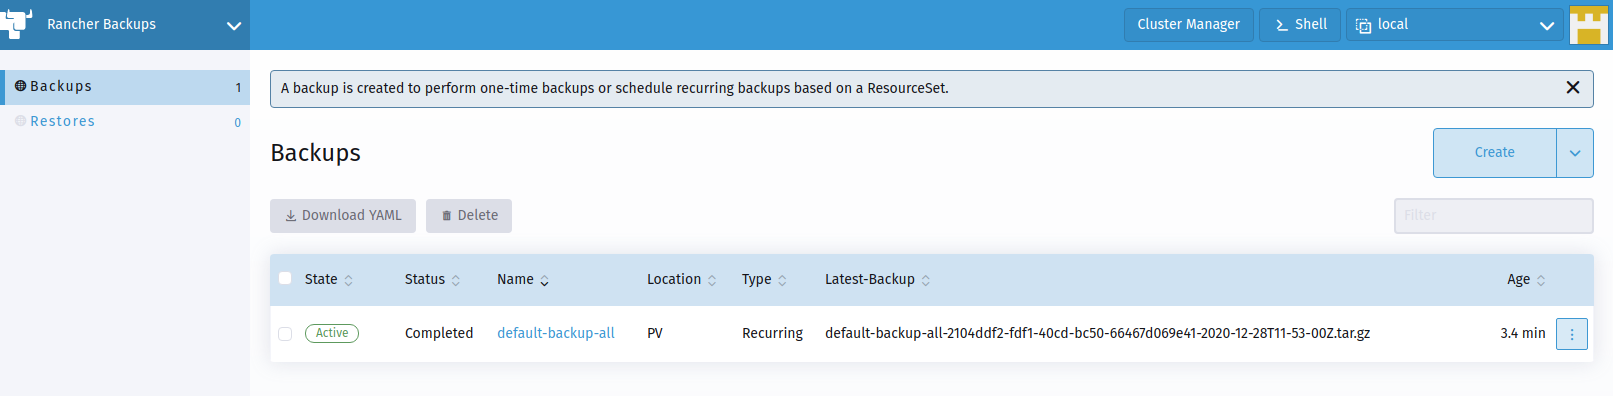
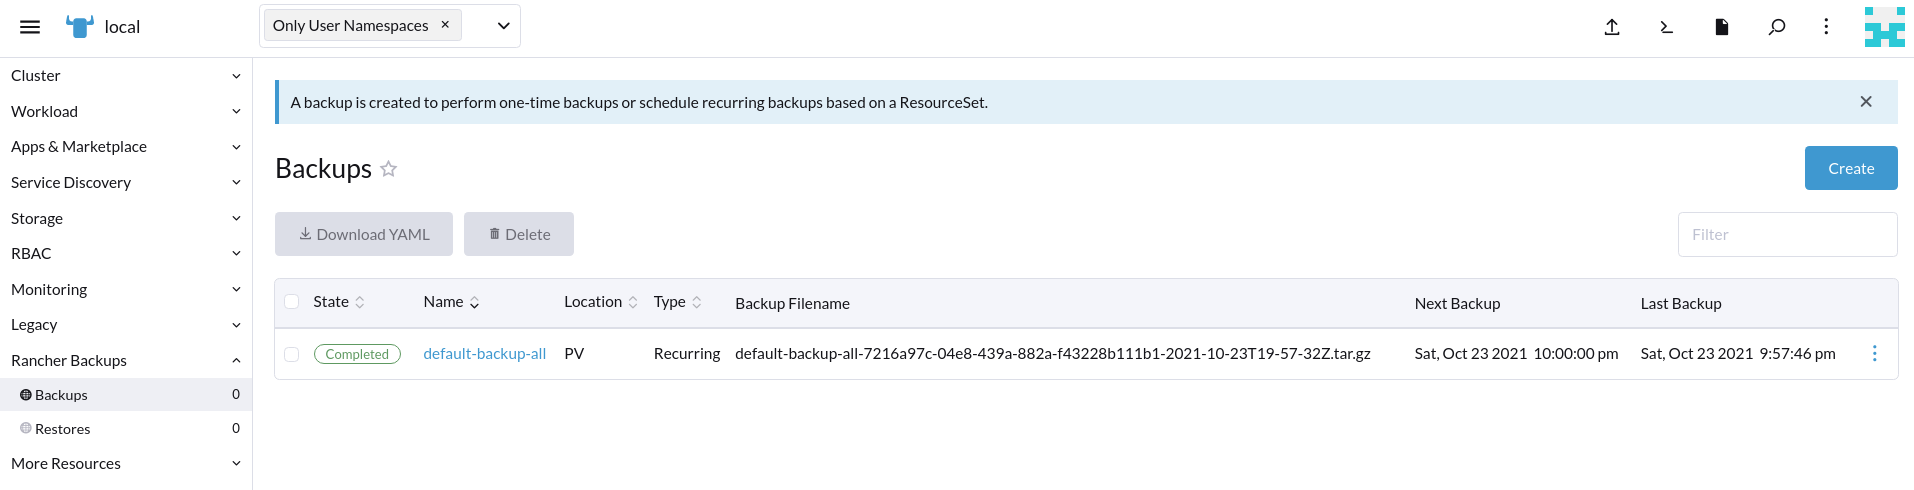
Upgraded to Rancher 2.6
Closes #1

diff --git a/README.md b/README.md
@@ -1,7 +1,7 @@
 # Kubernetes in a Home Lab Environment
 This repository should contain all required steps, manifests and resources to set up a K8s in a home lab environment. Its status should be viewed as "work in progress" since I plan to improve various things in the future.
 
-In the end, I will probably run some applications on top of this technology stack but the main goal is to improve my knowledge on different new (and sometimes fancy) cloud native and Kubernetes related tools. That's also the reason why this technology stack **should not be viewed as production ready** since the chaining of the different tools and their configurations has not been tested really well.
+In the end, I will probably run some applications on top of this technology stack, but the main goal is to strengthen my knowledge on different new (and sometimes fancy) cloud native and Kubernetes related tools. That's also the reason why this technology stack **should not be viewed as production ready**, since the chaining of the different tools and their configurations has not been tested really well.
 
 ![K8s Home Lab Topology](images/K8s-Home-Lab-Drawing.png)
 
@@ -18,8 +18,8 @@ The technologies down here will probably change in the future. Nevertheless, the
 | CSI                    | NFS-Client Provisioner                          | Done      |
 | Certificate Handling   | Cert-Manager with Let's Encrypt (DNS Challenge) | Done      |
 | Ingress Controller     | Nginx                                           | Done      |
-| Control Plane          | Rancher 2.5                                     | Done      |
-| Control Plane Backup   | Rancher Backup                                  | Done      |
+| Control Plane          | Rancher 2.6                                     | Done      |
+| Control Plane Backup   | Rancher Backups                                 | Done      |
 | Monitoring             | Prometheus Stack via Rancher Monitoring         | Done      |
 | Persistent Data Backup | Kanister                                        | On hold * |
 | App Deployment         | Helm & Fleet                                    | Done      |
@@ -64,7 +64,7 @@ The technologies down here will probably change in the future. Nevertheless, the
   - [External-DNS](#external-dns)
     - [External-DNS Prerequisites](#external-dns-prerequisites)
     - [External-DNS Installation](#external-dns-installation)
-  - [Rancher (2.5.X)](#rancher-25x)
+  - [Rancher (2.6.X)](#rancher-26x)
     - [Rancher Prerequisites](#rancher-prerequisites)
     - [Rancher Installation](#rancher-installation)
     - [Rancher Backups](#rancher-backups)
@@ -85,7 +85,7 @@ The technologies down here will probably change in the future. Nevertheless, the
 # Hardware
 One goal of this setup is that it should be runnable on a single host. The only exceptions are the external NFS storage from a Synology NAS and the DNS service from DigitalOcean.
 
-In my case I use an Intel NUC (`NUC10i7FNH2`) with a 12 core CPU (`Intel(R) Core(TM) i7-10710U CPU @ 1.10GHz`) and 64 GB memory (`2 x 32 GB DDR4-2666`).
+In my case, I use an Intel NUC (`NUC10i7FNH2`) with a 12 core CPU (`Intel(R) Core(TM) i7-10710U CPU @ 1.10GHz`) and 64 GB memory (`2 x 32 GB DDR4-2666`).
 
 # Prerequisites
 
@@ -175,7 +175,7 @@ disable:
   - rke2-kube-proxy
 ```
 
-**Note:** I disabled `rke2-canal` and `rke2-kube-proxy` since I plan to install Cilium as CNI in ["kube-proxy less mode"](https://docs.cilium.io/en/v1.9/gettingstarted/kubeproxy-free/) (`kubeProxyReplacement: "strict"`). Do not disable `rke2-kube-proxy` if you use another CNI - it will not work afterwards! I also disabled `rke2-ingress-nginx` since I wanted to install and configure the Nginx Ingress Controller according to my own taste (Daemonset in host network namespace).
+**Note:** I disabled `rke2-canal` and `rke2-kube-proxy` since I plan to install Cilium as CNI in ["kube-proxy less mode"](https://docs.cilium.io/en/v1.9/gettingstarted/kubeproxy-free/) (`kubeProxyReplacement: "strict"`). Do not disable `rke2-kube-proxy` if you use another CNI - it will not work afterwards! I also disabled `rke2-ingress-nginx` since I wanted to install and configure the Nginx Ingress Controller according to my taste (Daemonset in host network namespace).
 
 ### Firewall
 Ensure to open the required ports:
@@ -231,7 +231,7 @@ Source:
 - https://docs.rke2.io/install/requirements/#networking
 
 ### Prevent RKE2 Package Updates
-In order to provide more stability, I chose to DNF/YUM "mark/hold" the RKE2 related packages so a `dnf update`/`yum update` does not mess around with them.
+To provide more stability, I chose to DNF/YUM "mark/hold" the RKE2 related packages so a `dnf update`/`yum update` does not mess around with them.
 
 Add the following line to `/etc/dnf/dnf.conf` and/or `/etc/yum.conf`:
 ```bash
@@ -282,7 +282,7 @@ node1.example.com   Ready    etcd,master   5m13s   v1.19.8+rke2r1
 
 ### Cilium Prerequisites
 
-Ensure the eBFP filesystem is mounted (which should already be the case on RHEL 8.3):
+Ensure the eBFP file system is mounted (which should already be the case on RHEL 8.3):
 ```bash
 $ mount | grep /sys/fs/bpf
 # if present should output, e.g. "none on /sys/fs/bpf type bpf"...
@@ -441,7 +441,7 @@ Sources:
 # Infrastructure related Components
 
 ## Deploy Nginx Ingress Controller
-The Nginx ingress controller is deployed as Daemonset within the host network namespace. This way the Nginx ingress controller is able to see the actual client IP where this would not be possible without any workarounds when the Nginx ingress controller would be deployed as Deployment outside of the host's network namespace.
+The Nginx ingress controller is deployed as Daemonset within the host network namespace. This way the Nginx ingress controller can see the actual client IP where this would not be possible without any workarounds when the Nginx ingress controller would be deployed as Deployment outside the host's network namespace.
 
 ### Nginx Ingress Controller Prerequisites
 Prepare & add the Helm chart repo:
@@ -482,7 +482,7 @@ controller:
     enabled: false
 ```
 
-Finally install the Nginx ingress controller helm chart:
+Finally, install the Nginx ingress controller helm chart:
 ```bash
 $ helm upgrade -i --create-namespace --atomic nginx ingress-nginx/ingress-nginx \
   --version 3.26.0 \
@@ -530,7 +530,7 @@ Sources:
 - https://cert-manager.io/docs/installation/kubernetes/#installing-with-helm
 
 ### Let's Encrypt DNS-Challenge DigitalOcean ClusterIssuer
-Crete a Cert-Manager ClusterIssuer, which is able to issue Let's Encrypt certificates using the DNS01 challenge via DigitalOcean.
+Create a Cert-Manager ClusterIssuer, which can issue Let's Encrypt certificates using the DNS01 challenge via DigitalOcean.
 
 ```bash
 $ mkdir ~/rke2/cert-manager
@@ -618,7 +618,7 @@ digitalocean:
   apiToken: "access-token here"
 ```
 
-Finally install the External-DNS helm chart:
+Finally, install the External-DNS helm chart:
 ```bash
 $ helm upgrade -i --create-namespace --atomic external-dns bitnami/external-dns \
   --version 4.9.4 \
@@ -631,10 +631,10 @@ Verification:
 $ kubectl --namespace=external-dns get pods -l "app.kubernetes.io/name=external-dns,app.kubernetes.io/instance=external-dns"
 ```
 
-## Rancher (2.5.X)
+## Rancher (2.6.X)
 
 Sources:
-- https://rancher.com/docs/rancher/v2.x/en/installation/install-rancher-on-k8s/
+- https://rancher.com/docs/rancher/v2.6/en/installation/install-rancher-on-k8s/
 
 ### Rancher Prerequisites
 Prepare & add the Helm chart repo:
@@ -685,10 +685,10 @@ auditLog:
   level: 1
 ```
 
-Finally install the Rancher helm chart:
+Finally, install the Rancher helm chart:
 ```bash
 $ helm upgrade -i --create-namespace --atomic rancher rancher-latest/rancher \
-  --version 2.5.7 \
+  --version 2.6.2 \
   --namespace cattle-system \
   -f values.yaml
 ```
@@ -703,27 +703,28 @@ deployment "rancher" successfully rolled out
 ![Rancher Dashboard with official Let's Encrypt Certificate](images/rancher-dashboard-with-cert.png)
 
 Sources:
-- https://rancher.com/docs/rancher/v2.x/en/installation/resources/chart-options/
+- https://rancher.com/docs/rancher/v2.6/en/installation/install-rancher-on-k8s/chart-options/
 - https://github.com/rancher/rancher/issues/26850#issuecomment-658644922
 
 ### Rancher Backups
-Rancher 2.5+ now comes with a [rancher-backup](https://github.com/rancher/charts/tree/main/charts/rancher-backup) which is able to backup/restore all K8s and CRD resources that Rancher creates and manages.
+Rancher 2.5+ now comes with a [rancher-backup](https://github.com/rancher/charts/tree/main/charts/rancher-backup) which can backup/restore all K8s and CRD resources that Rancher creates and manages.
 Backup target can be a Persistent Volume or a S3 bucket.
 
 Sources:
 - https://rancher.com/docs/rancher/v2.x/en/backups/v2.5/
 
 #### Rancher Backups Installation
-Navigate to the "App & Marketplace" in Rancher and search for the "Rancher Backups" chart. Configure the settings down here:
+Select the `local` cluster, navigate to the "App & Marketplace" -> "Charts" menu and search for the "Rancher Backups" chart. Configure the settings down here:
 
-![Rancher Backups Settings](images/rancher-backups-settings.png)
+![Rancher Backups Settings 1](images/rancher-backups-settings-1.png)
+![Rancher Backups Settings 2](images/rancher-backups-settings-2.png)
 
 Next, change the Rancher Backups PersistentVolume reclaim policy to `Retain` (since the `nfs-client` Storageclass uses `Delete` by default):
 
 ```bash
 $ kubectl patch pv <rancher-backup-pv-name> -p '{"spec":{"persistentVolumeReclaimPolicy":"Retain"}}'
 # E.g.:
-$ kubectl patch pv pvc-cc2a9a75-a6b2-49f2-83bb-30229c84a679 -p '{"spec":{"persistentVolumeReclaimPolicy":"Retain"}}'
+$ kubectl patch pv pvc-bb7dea4c-f381-4b6c-92e3-9c62fb2e7b7a -p '{"spec":{"persistentVolumeReclaimPolicy":"Retain"}}'
 ```
 
 Verification:
@@ -731,14 +732,14 @@ Verification:
 # Before
 $ kubectl get pv
 NAME                                       CAPACITY   ACCESS MODES   RECLAIM POLICY   STATUS   CLAIM                                                                                                             STORAGECLASS   REASON   AGE
-pvc-cc2a9a75-a6b2-49f2-83bb-30229c84a679   10Gi       RWO            Delete           Bound    cattle-resources-system/rancher-backup-1                                                                          nfs-client              75s
+pvc-bb7dea4c-f381-4b6c-92e3-9c62fb2e7b7a   10Gi       RWO            Delete           Bound    cattle-resources-system/rancher-backup-1                                                                          nfs                     29s
 # Change Retention Policy
-$ kubectl patch pv pvc-cc2a9a75-a6b2-49f2-83bb-30229c84a679 -p '{"spec":{"persistentVolumeReclaimPolicy":"Retain"}}'
-persistentvolume/pvc-cc2a9a75-a6b2-49f2-83bb-30229c84a679 patched
+$ kubectl patch pv pvc-bb7dea4c-f381-4b6c-92e3-9c62fb2e7b7a -p '{"spec":{"persistentVolumeReclaimPolicy":"Retain"}}'
+persistentvolume/pvc-bb7dea4c-f381-4b6c-92e3-9c62fb2e7b7a patched
 # After
 $ kubectl get pv
 NAME                                       CAPACITY   ACCESS MODES   RECLAIM POLICY   STATUS   CLAIM                                                                                                             STORAGECLASS   REASON   AGE
-pvc-cc2a9a75-a6b2-49f2-83bb-30229c84a679   10Gi       RWO            Retain           Bound    cattle-resources-system/rancher-backup-1                                                                          nfs-client              2m21s
+pvc-bb7dea4c-f381-4b6c-92e3-9c62fb2e7b7a   10Gi       RWO            Retain           Bound    cattle-resources-system/rancher-backup-1                                                                          nfs                     56s
 ```
 
 Finally, navigate to the "Rancher Backups" menu and configure a new scheduled backup job or simply create a new CR which does basically the same:
@@ -757,7 +758,7 @@ spec:
   schedule: 0 */2 * * *
 ```
 
-More backup YAML examples can be found here: https://rancher.com/docs/rancher/v2.x/en/backups/v2.5/examples/
+More backup YAML examples can be found here: https://rancher.com/docs/rancher/v2.6/en/backups/configuration/backup-config/
 
 Verification:
 ![Rancher Backup Job](images/rancher-backup-job.png)
@@ -765,18 +766,19 @@ Verification:
 ### Rancher Monitoring
 Since the new Rancher 2.5+ monitoring is already based on the [kube-prometheus-stack](https://github.com/prometheus-community/helm-charts/tree/main/charts/kube-prometheus-stack) I will simply use it this way.
 
-Navigate to the "App & Marketplace" in Rancher and search for the "Monitoring" chart. Leave nearly all settings default but enable persistent storage for Prometheus:
+Navigate to the "App & Marketplace" -> "Charts" menu in Rancher and search for the "Monitoring" chart. Leave nearly all settings default but enable persistent storage for Prometheus:
 
-![Rancher Monitoring Settings](images/rancher-monitoring-settings.png)
+![Rancher Monitoring Settings Prometheus](images/rancher-monitoring-setting-prometheus.png)
+![Rancher Monitoring Settings Grafana](images/rancher-monitoring-setting-grafana.png)
 
-Also click on `Edit as YAML` and search for the `rke2Proxy` section in order to disable it:
+Also click on `Edit as YAML` and search for the `rke2Proxy` section to disable it:
 ```yaml
 rke2Proxy:
   enabled: false
 ```
 (We simply can't use the kube-proxy metrics target since we disabled it completely ("kube-proxy less" Cilium).)
 
-Finally click "Install" and wait a few minutes.
+Finally, click "Install" and wait a few minutes.
 
 **Hints:**
 - Ensure to open `9796/TCP` on the node since the RKE2 deployed node-exporter provides the Rancher Monitoring metrics via this port.
@@ -784,10 +786,10 @@ Finally click "Install" and wait a few minutes.
 - If the Grafana pod does not come up properly, ensure your NFS share squash settings allow the Grafana init container to change the ownership of files/directories inside its NFS based PV.
 
 Sources:
-- https://rancher.com/docs/rancher/v2.x/en/monitoring-alerting/v2.5/
+- https://rancher.com/docs/rancher/v2.6/en/monitoring-alerting/
 
 #### Cilium & Nginx Ingress Monitoring
-Since we now have deployed the Prometheus stack, we should be able to enable the Cilium & Nginx ingress monitoring which are also based on the `ServiceMonitor` CRDs from the Prometheus stack. Add the following properties to the Cilium `values.yaml` file and redeploy it (keep all other values as shown before):
+Since we now have deployed the Prometheus stack, we should be able to enable the Cilium & Nginx ingress monitoring, which are also based on the `ServiceMonitor` CRDs from the Prometheus stack. Add the following properties to the Cilium `values.yaml` file and redeploy it (keep all other values as shown before):
 
 ```yaml
 hubble:
@@ -818,7 +820,7 @@ controller:
 ```
 
 #### Cilium Grafana Dashboards
-There are currently 3 publicy available Grafana Dashboards from Cilium:
+There are currently 3 public available Grafana Dashboards from Cilium:
 
 - [Cilium v1.9 Agent Metrics](https://grafana.com/grafana/dashboards/13537)
 - [Cilium v1.9 Hubble Metrics](https://grafana.com/grafana/dashboards/13539)
@@ -873,7 +875,7 @@ Sources:
 - https://rancher.com/docs/rancher/v2.x/en/monitoring-alerting/v2.5/migrating/#migrating-grafana-dashboards
 
 #### Custom Nginx Ingress & Cluster Capacity Management Dashboard
-When installing the Prometheus stack, I also often deploy some other nice Grafna Dashboards like this one for the Nginx ingress:
+When installing the Prometheus stack, I also often deploy some other nice Grafana Dashboards like this one for the Nginx ingress:
 
 ![Nginx Ingress Gafana Dashboard](images/nginx-dashboard.png)
 
@@ -895,7 +897,7 @@ TODO
 TODO
 
 ## GitOps using Fleet
-I first wanted to use ArgoCD to deploy applications with the GitOps approach on the K8s cluster but then I realized, Rancher 2.5+ already comes with Fleet preinstalled and that it also offers a quite nice UI integration. I therefore chose to give Fleet a try.
+I first wanted to use ArgoCD to deploy applications with the GitOps approach on the K8s cluster, but then I realized, Rancher 2.5+ already comes with Fleet preinstalled and that it also offers a quite nice UI integration. I therefore chose to give Fleet a try.
 
 Sources:
 - https://rancher.com/docs/rancher/v2.x/en/deploy-across-clusters/fleet
@@ -916,7 +918,7 @@ fleet-controller-767b564d9f-fshp6   1/1     Running   0          2m35s
 ```
 
 ### Fleet Configuration
-In order to manage the RKE2 `local` cluster, you need to switch to the `fleet-local` namespace as the `local` cluster should already be added there since Rancher 2.5+ automatically deployed a fleet-agent in it:
+To manage the RKE2 `local` cluster, you need to switch to the `fleet-local` namespace as the `local` cluster should already be added there since Rancher 2.5+ automatically deployed a fleet-agent in it:
 
 ```bash
 $ kubectl get clusters.fleet.cattle.io -A
@@ -926,9 +928,9 @@ fleet-local   local   1/1             1/1           node1.example.com   2020-12-
 
 ![Fleet local Cluster](images/fleet-local-cluster.png)
 
-The final fleet basic configuration step is to add a Git repository which is later used to store the Fleet managed manifests. I chose to also host this on Github inside the private https://github.com/PhilipSchmid/home-lab-fleet-manifests repository.
+The final fleet basic configuration step is to add a Git repository, which is later used to store the Fleet managed manifests. I chose to also host this on Github inside the private https://github.com/PhilipSchmid/home-lab-fleet-manifests repository.
 
-To allow Fleet to access a private Git repository, you must create a SSH key which is then added as deployment key. More information about this process can be found here: https://fleet.rancher.io/gitrepo-add/
+To allow Fleet to access a private Git repository, you must create a SSH key, which is then added as the deployment key. More information about this process can be found here: https://fleet.rancher.io/gitrepo-add/
 
 ```bash
 $ mkdir ~/rke2/fleet
@@ -946,7 +948,7 @@ $ kubectl create secret generic fleet-github-ssh-key \
 
 Do not forget to add the just generated public key as deploy key on the Github Git repository (read permissions should be sufficient)
 
-Finally it's time to configure the GitRepo CR (`home-lab-fleet-manifests.yaml`):
+Finally, it's time to configure the GitRepo CR (`home-lab-fleet-manifests.yaml`):
 ```yaml
 apiVersion: fleet.cattle.io/v1alpha1
 kind: GitRepo
@@ -1014,11 +1016,11 @@ diff:
 
 **Note:** The `diff.comparePatches` section is required since Fleet would otherwise recognize the Minio Helm chart created Ingress object as `modified` all the time. Error: `Modified(1) [Cluster fleet-local/local]; ingress.networking.k8s.io fleet-app-minio/minio modified {"spec":{"rules":[{"host":"minio.example.com","http":{"paths":[{"backend":{"serviceName":"minio","servicePort":9000},"path":"/"}]}}]}}`
 
-Finally push this `fleet.yaml` file to the repositorys `master` branch. Fleet should then automatically start to deploy the Minio application via the specified Helm chart.
+Finally, push this `fleet.yaml` file to the repositories `master` branch. Fleet should then automatically start to deploy the Minio application via the specified Helm chart.
 
 ![Fleet Minio Deployment](images/rancher-fleet-minio-git-repo-active.png)
 
-To get the Minio secret and accesskey, issue the following commands:
+To get the Minio secret and access key, issue the following commands:
 ```bash
 $ kubectl get secret -n fleet-app-minio minio -o jsonpath='{.data.accesskey}' | base64 -d
 $ kubectl get secret -n fleet-app-minio minio -o jsonpath='{.data.secretkey}' | base64 -d
